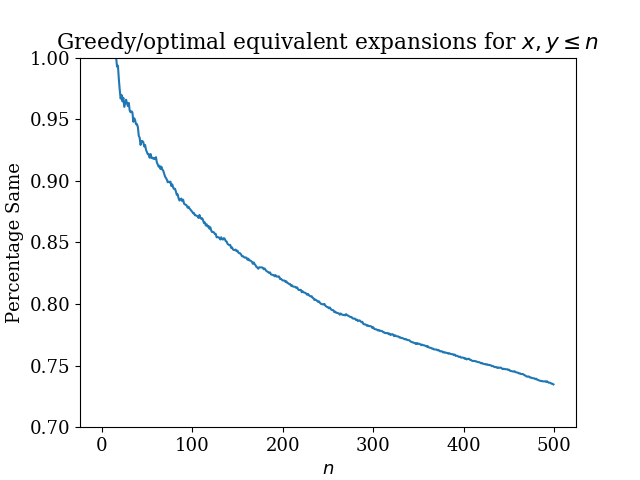
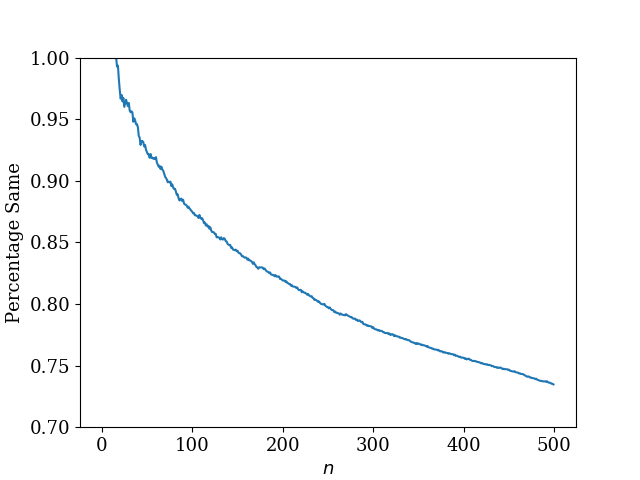
Add more computed data and analysis code.

Changed region(s): [[0.0938, 0.0625, 0.9375, 0.125]]

diff --git a/analyze.py b/analyze.py
@@ -45,10 +45,17 @@ def do_pixel_graph(results: Dict[Tuple[int, int], Tuple[List[int], List[int]]], 
 
     imsave(f'pixel_{disparity_function.__name__}.png', data)
 
-def do_greedy_outliers(results: Dict[Tuple[int, int], Tuple[List[int], List[int]]]):
+
+def do_greedy_outliers_denominators(results: Dict[Tuple[int, int], Tuple[List[int], List[int]]]):
     term_disparities = {key: disparity_denominator(*value) for key, value in results.items()}
 
-    max_disparity = max(term_disparities.values())
+    top_results = sorted(term_disparities.items(), key=lambda x: -x[1])[:10]
+
+    for point, disparity in top_results:
+        print(f'{point}: {disparity}')
+
+def do_greedy_outliers_terms(results: Dict[Tuple[int, int], Tuple[List[int], List[int]]]):
+    term_disparities = {key: disparity_terms(*value) for key, value in results.items()}
 
     top_results = sorted(term_disparities.items(), key=lambda x: -x[1])[:10]
 
@@ -90,7 +97,7 @@ def do_percentage_same_n(results: Dict[Tuple[int, int], Tuple[List[int], List[in
     plt.rc('font', family='serif', size=13)
     plt.plot(np.array(n_values), np.array(percentage_values))
     plt.xlabel('$n$')
-    plt.title('Greedy/optimal equivalent expansions for $x,y \leq n$')
+    # plt.title('Greedy/optimal equivalent expansions for $x,y \leq n$')
     plt.ylabel('Percentage Same')
     plt.ylim(0.7, 1.0)
     pylab.savefig('n_percent_graph.png')
